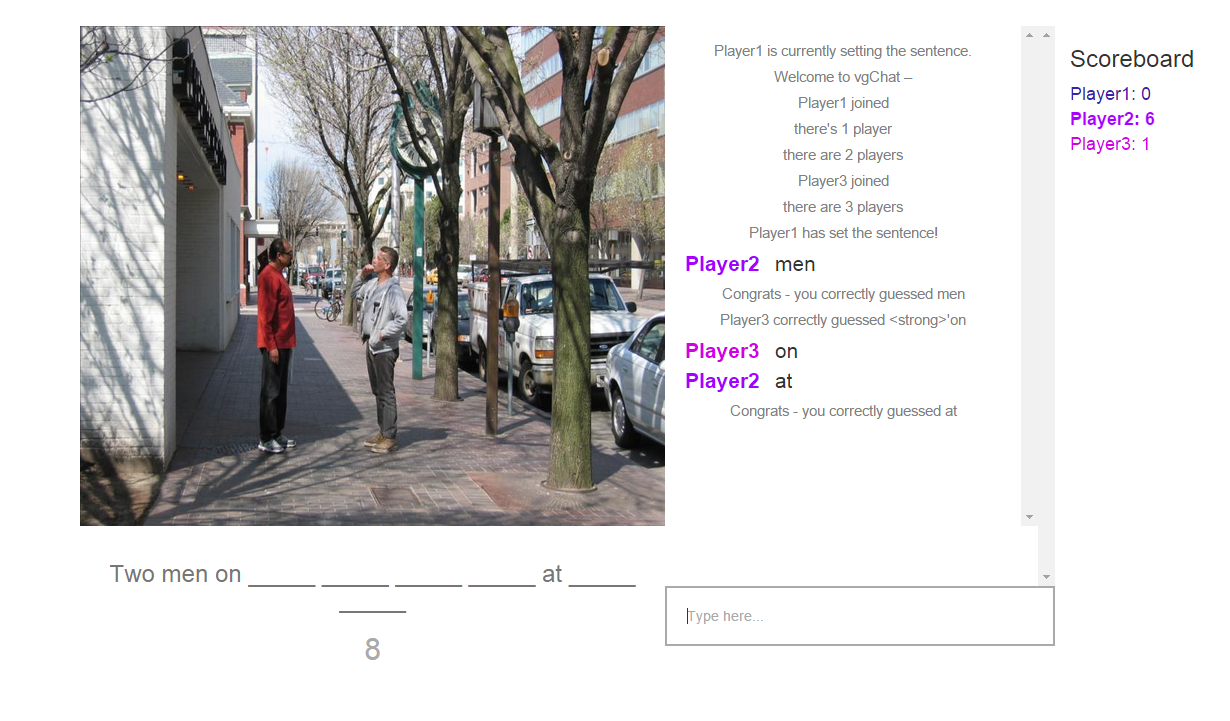
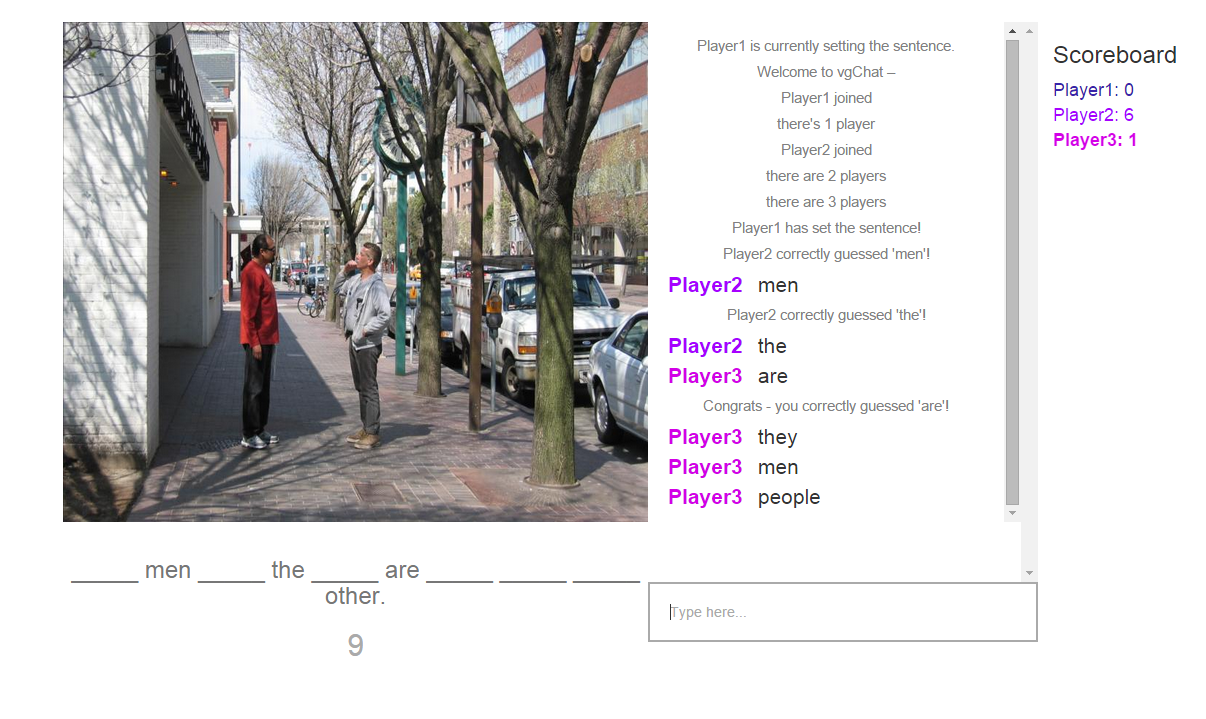
fixing some small issues with 'strong'

diff --git a/public/main.js b/public/main.js
@@ -405,13 +405,13 @@ $(function() {
 
   // Whenever a user hits a word by themselves
   socket.on('hit word', function (data) {
-    log("Congrats - you correctly guessed " + data.word);
+    log("Congrats - you correctly guessed '" + data.word+"'!");
     updateScores(data, true);
     updateState(data);
   });
 
   socket.on('update score', function(data) {
-    log(data.username + " correctly guessed <strong>'" + data.word) + "'</strong>!";
+    log(data.username + " correctly guessed '" + data.word + "'!");
     updateScores(data, true);
     updateState(data);
   });
